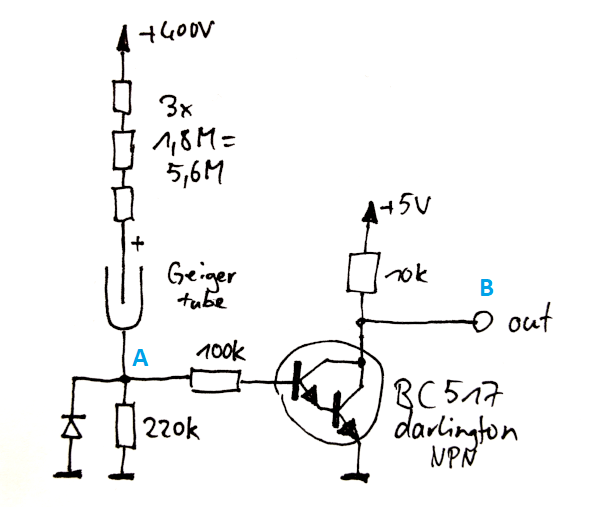
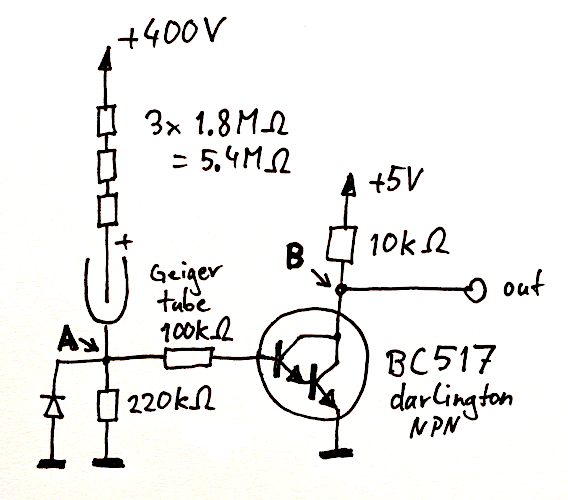
updated schematic

Changed region(s): [[0.0599, 0.03, 0.9577, 0.96], [0.4789, 0.48, 0.5387, 0.54]]

diff --git a/README.md b/README.md
@@ -34,13 +34,13 @@ Feel free to use this project as a base for your own projects AT YOUR OWN RISK!
 
 ![Pulse forming schematic](media/pulse-forming-schematic.png)
 
-The 5.6 M&#937; series resistor is split up to reduce the voltage on each of them. The diode partially removes the noise spikes from the high voltage circuit.
+The 5.4 M&#937; series resistor is split up to reduce the voltage on each of them. The diode partially removes the noise spikes from the high voltage circuit.
 
-This is the raw pulse at point A, about 2 V for 100 µs, then falling back to 0 V in the next several 100 µs. Remainings of the little noise spikes are still visible:
+This is the raw pulse at point A, about 2 V for less than 100 µs, then falling back to 0 V in the next several 100 µs. Remainings of the little noise spikes are still visible:
 
 ![Raw pulse at point A](media/geiger-signal-raw.png)
 
-Here you can see the formed pulse at point B, nearly 5 V for 200 µs:
+Here you can see the formed pulse at point B, from 5 V to about 0.5 V for 200 µs:
 
 ![Formed pulse at output point B](media/geiger-signal-formed.png)
 
